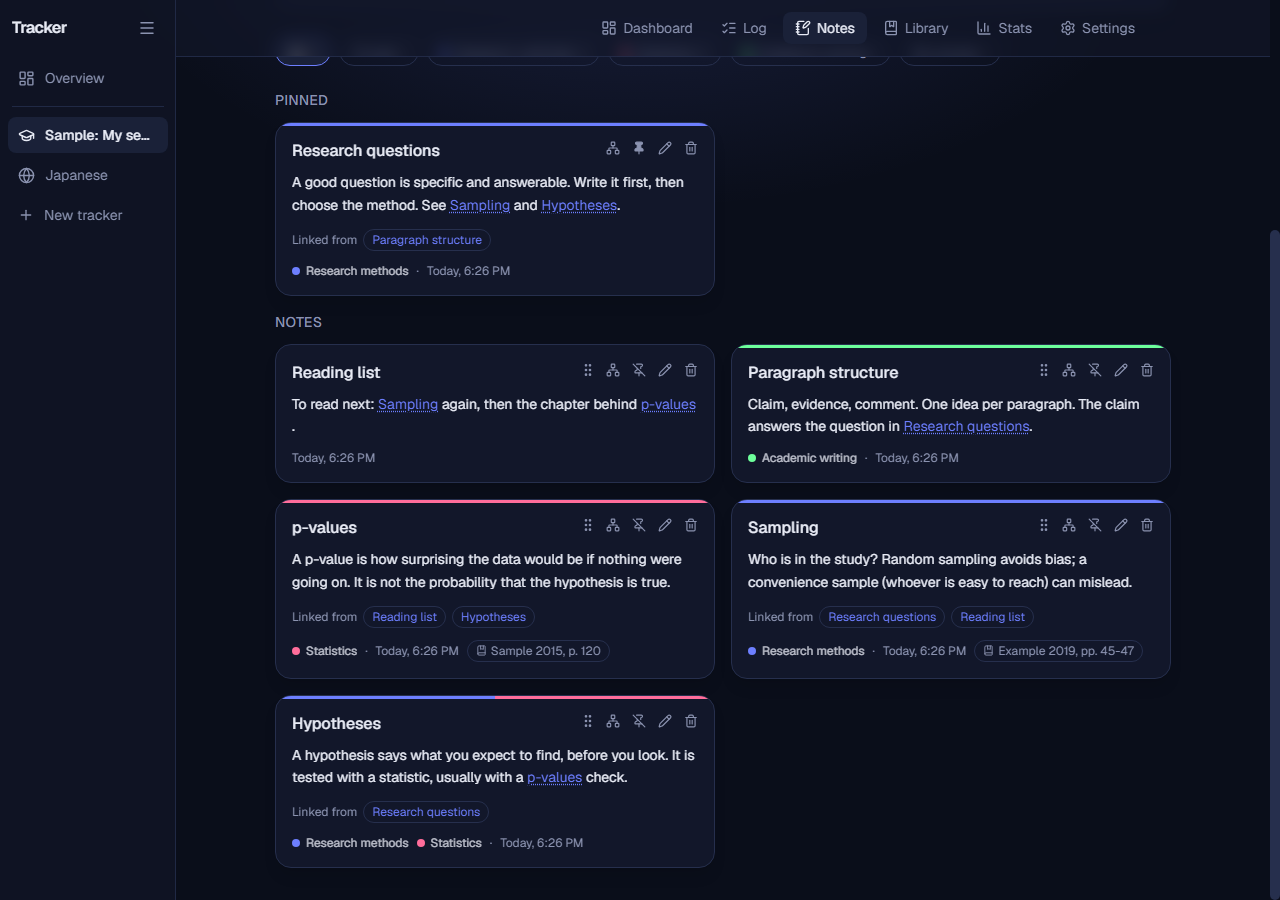
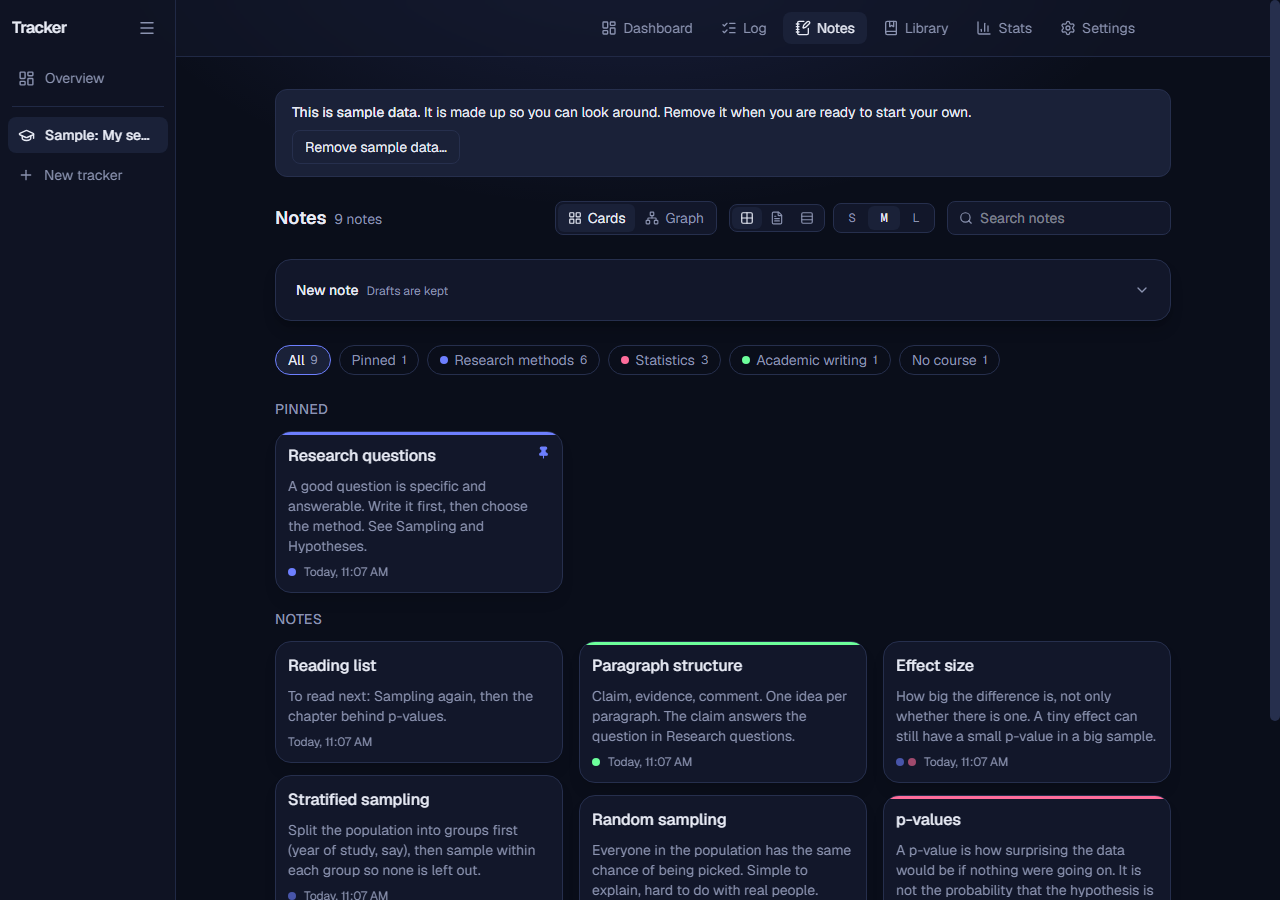
Update the site

diff --git a/docs/manual.html b/docs/manual.html
@@ -23,7 +23,7 @@
   </header>
 
   <h1>The full user manual</h1>
-  <p class="lead">Everything Tracker does, part by part. New here? Start with <a href="guide.html">Getting started in ten minutes</a>. This manual describes version 0.9.0; later versions may add things, and Overview, Settings, About lists what changed.</p>
+  <p class="lead">Everything Tracker does, part by part. New here? Start with <a href="guide.html">Getting started in ten minutes</a>. This manual describes version 0.10.0; later versions may add things, and Overview, Settings, About lists what changed.</p>
 
   <div class="layout">
     <nav class="toc" aria-label="Contents">
@@ -166,7 +166,7 @@
         <figure class="shot"><a class="zoom" href="img/overview.png"><img src="img/overview.png" width="1280" height="900" alt="The overview page with totals, a daily chart for all trackers and a split by tracker." loading="lazy"></a><figcaption>Overview of two trackers.</figcaption></figure>
 
         <h2 id="notes">10. Notes and the graph</h2>
-        <figure class="shot"><a class="zoom" href="img/notes.png"><img src="img/notes.png" width="1280" height="900" alt="The notes page showing pinned and recent note cards with links between them." loading="lazy"></a><figcaption>Notes as cards.</figcaption></figure>
+        <figure class="shot"><a class="zoom" href="img/notes.png"><img src="img/notes.png" width="1280" height="900" alt="The notes page with the layout and size buttons beside Cards and Graph, and small cards showing each note's title, a few lines of its text, its course dots and the date." loading="lazy"></a><figcaption>Notes as small cards (Grid). Click one to read it in full.</figcaption></figure>
         <h3>Writing</h3>
         <ul>
           <li>Press <strong>New note</strong> to open the editor. Anything half written is kept if you leave, until you save or discard it.</li>
@@ -175,7 +175,7 @@
           <li><strong>Start from</strong>: <em>Learned</em>, <em>Question</em>, <em>Checklist</em> and <em>Terms</em> fill in a starting shape.</li>
           <li><strong>Courses</strong>: tick one or several; the note then appears under each. <strong>About</strong> ties it to a book or article, with an optional page number. A thin line of each course's colour runs along the top of the card (a note in several courses shows every colour side by side) and curves with the card's corners in every theme.</li>
           <li><strong>Under</strong>: put the note under one or more other notes (type part of a title and pick it; the &times; takes it out again). See <a href="#notes-under">Notes under notes</a>.</li>
-          <li><strong>Pin</strong> keeps a note at the top. <kbd>Ctrl</kbd>+<kbd>Enter</kbd> saves.</li>
+          <li><strong>Pin</strong> keeps a note at the top. <kbd>Ctrl</kbd>+<kbd>Enter</kbd> saves (another key can be chosen in <a href="#shortcuts">Shortcuts</a>).</li>
           <li>You can also write a note right after a session (see <a href="#timer">The timer</a>) or about a session in the Log.</li>
         </ul>
         <h3>Linking</h3>
@@ -184,7 +184,7 @@
         <p>A note can sit under another note, for example <em>Random sampling</em> under <em>Sampling</em>. A note can be under several notes at once, and a note under a note can have notes under it too, as deep as you like. Put a note under another with <strong>Under</strong> in its editor, or with <strong>Put under...</strong> in the graph.</p>
         <ul>
           <li>A note is in the courses of every note above it as well as in its own. In the example, <em>Random sampling</em> is in Research methods because <em>Sampling</em> is, without being given that course itself. You can still give it a course of its own as well.</li>
-          <li>A note is also <strong>about the books</strong> of every note above it, the way it is in their courses. If <em>Sampling</em> is about a book, <em>Random sampling</em> shows that book too, as a dashed chip, and in the graph its bubble lists it under <em>About, through the notes above</em>. There is no line of its own to that book. A note can still be about a book of its own as well.</li>
+          <li>A note is also <strong>about the books</strong> of every note above it, the way it is in their courses. If <em>Sampling</em> is about a book, <em>Random sampling</em> shows that book too, as a dashed chip, and in the graph its bubble lists it under <em>Also about</em>. There is no line of its own to that book. A note can still be about a book of its own as well.</li>
           <li>Each card shows <strong>Under</strong> with the notes it is under, and how many notes are under it; click one to go to it.</li>
           <li>A note cannot be put under itself, or under a note that is already under it. Tracker refuses that and says why.</li>
           <li><strong>Deleting</strong> a note that has notes under it keeps them: they are given its courses and move up to the notes it was under. The question before deleting says so.</li>
@@ -196,25 +196,31 @@
           <li>When you choose a course for a book in the Library, Tracker asks how the book is joined to it: <strong>Put it under the course</strong> (the first choice) or <strong>A normal connection</strong>, a plain line that says nothing more. Books you already had are under their course.</li>
           <li>A note you write <strong>about a book</strong> (<em>About</em> in the note&rsquo;s editor) is put under that book at once, and you do not have to choose.</li>
           <li>As with notes under notes, a note is in the course of the book it is under, as well as its own courses. A book that is only connected to its course does not pass the course down to its notes.</li>
-          <li>In the graph, a book under its course and a note under its book are joined by dashed lines, each in its own look (see <em>Four kinds of line for being under something</em> below). <strong>Put under...</strong> works for them too: a book goes under a course, a note goes under a book. Selecting the line of a book and its course offers <em>Make it a normal connection</em> or <em>Put under</em>, to switch between the two.</li>
+          <li>In the graph, a book under its course and a note under its book are joined by dashed lines, each in its own look (see <em>Four kinds of line for being under something</em> below). <strong>Put under...</strong> works for them too: a book goes under a course, a note goes under a book. Selecting the line of a book and its course shows <em>Type</em>: <em>Under</em> or <em>Normal</em>, to switch between the two.</li>
         </ul>
+        <h3>Grid, full text and list</h3>
+        <p>Beside <em>Cards</em> and <em>Graph</em>, three small buttons choose how the cards show: <strong>Grid</strong> (small cards with the title, a few lines, the course dots, the book and the date; the usual choice), <strong>Full text</strong> (every note in full) and <strong>List</strong> (one row per note). <strong>S</strong>, <strong>M</strong> and <strong>L</strong> set the size in Grid (how many cards side by side and how many lines show) and in List (how roomy the rows are). In Grid and List, <strong>click a note</strong> to show it in full where it is, with its pictures and buttons; click its title again, press <kbd>Esc</kbd> or click another note to make it small again. A note opened from a link, a citation or the graph is shown in full. The same choice is in each tracker&rsquo;s Settings, <em>Notes</em>, and it is kept in this browser for every tracker.</p>
         <h3>Finding</h3>
         <p>Filter by <em>All</em>, <em>Pinned</em>, a course, or <em>No course</em>, or type in <strong>Search notes</strong>. A course lists its notes and the notes under them. Notes can be dragged into your own order.</p>
         <h3>The graph</h3>
         <p>Press <strong>Graph</strong> (next to <em>Cards</em>) to see your notes as dots joined by their links. Courses are the large ring-shaped dots, books are rectangles, notes are dots coloured by course (a note in two courses is split in two colours).</p>
-        <figure class="shot"><a class="zoom" href="img/graph.png"><img src="img/graph.png" width="1280" height="900" alt="The notes graph with labelled dots for notes, courses and books, lines for links, and dashed lines from Random sampling and Stratified sampling to Sampling, the note they are under." loading="lazy"></a><figcaption>The graph. Drag a dot to move it; click one to open the note.</figcaption></figure>
+        <figure class="shot"><a class="zoom" href="img/graph.png"><img src="img/graph.png" width="1280" height="900" alt="The notes graph with labelled dots for notes, courses and books, lines for links, and dashed lines from Random sampling and Stratified sampling to Sampling, the note they are under." loading="lazy"></a><figcaption>The graph. Drag a dot to move it; click one for its details.</figcaption></figure>
         <ul>
           <li>The tick boxes <strong>Courses</strong>, <strong>Unwritten links</strong> and <strong>Books</strong> show or hide those kinds of dots; <strong>Fit</strong> fits everything in view. Your choices are remembered.</li>
-          <li><strong>Click a dot or a line</strong> and its details open in a <strong>bubble</strong> beside it. The bubble follows the dot when you move or zoom the picture, opens on the dot&rsquo;s other side near the edge of the picture, and has the buttons <em>Open note</em> (or <em>Open in Library</em> for a book), <em>Connect to...</em> and <em>Clear</em>. Clicking empty space closes it.</li>
+          <li><strong>Click a dot or a line</strong> and its details open in a <strong>bubble</strong> beside it. A line&rsquo;s bubble names its kind (the names used in Customise) and its two ends, with an arrow from what is under to what it is under. The bubble follows the dot when you move or zoom the picture, opens on the dot&rsquo;s other side near the edge of the picture, and has the buttons <em>Open note</em> (or <em>Open in Library</em> for a book), <em>Connect to...</em> and <em>Clear</em>. Clicking empty space closes it.</li>
+          <li><strong>The note panel.</strong> <em>Open note</em> in a note&rsquo;s bubble (or a double-click on its dot) opens the note in a panel at the right of the graph, below it on a narrow screen, with the whole editor: title, text, courses, under, book and page, pictures and pin, with <em>Save</em> and <em>Delete note</em>. It stays open after saving, and clicking another note&rsquo;s dot shows that note in it. The close button or <kbd>Esc</kbd> closes it (in a field, the first <kbd>Esc</kbd> leaves the field). It is there in Full window and Fullscreen too. <em>Go to card</em> leaves the graph and shows the note&rsquo;s card instead.</li>
+          <li><strong>New notes from the graph.</strong> <em>New note</em> beside <em>Fit</em>, the <kbd>N</kbd> key, or a double-click on empty space opens the panel with an empty editor. <em>Add note</em> in a dot&rsquo;s bubble starts it already under that note, about that book, or in that course. Nothing is saved until you press <em>Add note</em>; the new note&rsquo;s dot is then selected and brought to the middle.</li>
           <li><strong>Full window</strong> (next to Fullscreen) makes the graph fill this browser window, without taking over the screen. It is for people who keep Tracker in a smaller window beside other things. The tick boxes and Fit come along, <kbd>Esc</kbd> leaves it, and <em>Open note</em> leaves it before showing the note. It works together with Fullscreen.</li>
           <li><strong>Fullscreen</strong> (when your browser allows it) gives the graph the whole screen. <kbd>Esc</kbd> leaves it.</li>
-          <li><strong>Four kinds of line for being under something.</strong> A dashed line runs from a book to the course it is under, from a note to the book it is about, and from a note to each note it is under. It pulls the lower dot close, so what is under something gathers around it, and it has a look of its own by how far down it is, so that you can tell the levels apart. A <em>primary note</em> is one about a book (or a note with nothing above it), a <em>secondary note</em> is under a primary note, and a <em>tertiary note</em> is under a secondary note, or anywhere further down. The four lines, from the top: <strong>subfield and book</strong> (a dashed line in the course&rsquo;s colour), <strong>book and primary note</strong> (a heavy dashed line in the text colour), <strong>primary and secondary note</strong> (a thinner dashed grey line) and <strong>secondary and tertiary note</strong> (a thin dotted grey line). None has an arrowhead until you switch it on in Customise. A note has a line to a course only for the courses you gave it yourself; it reaches the others through what is above it. If a [[link]] also joins two notes, they share that one line. A book that is only connected to its course has a plain thin line in the course&rsquo;s colour instead. Arrowheads, pointing at the one above, can be switched on in Customise.</li>
-          <li><strong>Put under...</strong> (next to <em>Connect to...</em> when a note or a book is selected) puts it under the note, book or course you click next: a note goes under a note or a book, a book goes under a course. The shortcut: hold <kbd>Alt</kbd> (or <kbd>Ctrl</kbd>) and drag the note or book onto what it goes under, the way holding <kbd>Shift</kbd> and dragging joins two dots (for a book and a course, <em>Connect to...</em> and <kbd>Shift</kbd>-drag make a normal connection). Select an under line and press <em>Disconnect</em> to take a note out from under another, or a book out of its course.</li>
-          <li>A connection can carry a short <strong>comment</strong> that keeps its history, so you can write why two notes belong together. The comment is written along the line, tilted with it and cut with &ldquo;...&rdquo; to fit between the two dots; select the line to read it in full.</li>
+          <li><strong>Four kinds of line for being under something.</strong> A dashed line runs from a book to the course it is under, from a note to the book it is about, and from a note to each note it is under. It pulls the lower dot close, so what is under something gathers around it, and it has a look of its own by how far down it is, so that you can tell the levels apart. A <em>primary note</em> is one about a book (or a note with nothing above it), a <em>secondary note</em> is under a primary note, and a <em>tertiary note</em> is under a secondary note, or anywhere further down. The four lines, from the top: <strong>subfield and book</strong> (dashed, in the course&rsquo;s colour), <strong>book and primary note</strong> (heavy dashed, in the theme&rsquo;s accent colour), <strong>primary and secondary note</strong> (dashed, the accent half faded) and <strong>secondary and tertiary note</strong> (thin dashed, grey). A dashed line is always the hierarchy: a <strong>[[link]]</strong> is a dotted line in the colour of a course the two notes share (or else the first note&rsquo;s course; orange when neither has one), and a note in a course has a thin solid line in the course&rsquo;s colour. In a light theme these automatic colours are darkened as much as needed to stay easy to see. None has an arrowhead until you switch it on in Customise. A note has a line to a course only for the courses you gave it yourself; it reaches the others through what is above it. If a [[link]] also joins two notes, they share that one line. A book that is only connected to its course has a plain thin line in the course&rsquo;s colour instead. Arrowheads, pointing at the one above, can be switched on in Customise.</li>
+          <li><strong>Put under...</strong> (next to <em>Connect to...</em> when a note or a book is selected) puts it under the note, book or course you click next: a note goes under a note or a book, a book goes under a course. The shortcut: hold <kbd>Alt</kbd> and drag the note or book onto what it goes under (for a book and a course, <em>Connect to...</em> and <kbd>Shift</kbd>-drag make a normal connection). See <a href="#shortcuts">Shortcuts</a> for one for each kind of line. Select an under line and press <em>Disconnect</em> to take a note out from under another, or a book out of its course.</li>
+          <li id="shortcuts"><strong>Shortcuts.</strong> Hold keys while you drag from one dot onto another to choose the kind of connection: <kbd>Shift</kbd> makes a normal connection (two notes get a [[link]], a note joins a course, a note is about a book), <kbd>Shift</kbd>+<kbd>1</kbd> puts a book under a course, <kbd>Shift</kbd>+<kbd>2</kbd> a note under a book, <kbd>Shift</kbd>+<kbd>3</kbd> or <kbd>Shift</kbd>+<kbd>4</kbd> the dragged note under the other note (the message says whether it became a secondary or a tertiary note), <kbd>Shift</kbd>+<kbd>5</kbd> adds a note to a course, and <kbd>Alt</kbd> puts it under whatever it is dropped on. For the book and course shortcuts either dot can be the one dragged. If the two dots do not fit the keys, nothing changes and a short line says what the keys join. In the graph, <kbd>N</kbd> starts a new note and <kbd>F</kbd> fits the picture. Every shortcut can be changed in each tracker&rsquo;s Settings, <em>Shortcuts</em> (press <em>Change</em>, then the new keys; <kbd>Esc</kbd> cancels; a key that is already used is refused). Kept in this browser.</li>
+          <li><strong>Change a connection&rsquo;s type.</strong> Click the line between two notes and its bubble shows <em>Type</em>: <em>Link</em> (a [[link]] in the text) or <em>Under</em> (the first note under the second). Switching from a link takes the [[link]] out of the text (the words stay) and puts the note under the other; switching to a link takes it out from under and adds the [[link]] to its <em>Related</em> line. <em>Swap</em> turns an under line round, so the note that was above goes under. For a book and its course the choice is <em>Under</em> or <em>Normal</em>. A comment on the line moves with it, the line stays selected, and one <em>Undo</em> puts everything back. If the new connection cannot be made (for example it would put a note under itself), nothing changes.</li>
+          <li>A connection can carry a short <strong>comment</strong> that keeps its history, so you can write why two notes belong together. The comment is written along the line, tilted with it and cut with &ldquo;...&rdquo; to fit between the two dots; select the line to read it in full. A changed or removed comment can be brought back with <em>Restore</em>.</li>
           <li>In any tracker&rsquo;s Settings, <em>Notes graph</em>, you can choose the shape of each kind of dot and how the graph moves (it follows your computer&rsquo;s &ldquo;reduce motion&rdquo; setting by default).</li>
-          <li><strong>Customise</strong>, in the same place, starts closed and is optional. For every kind of line (links, note and subfield lines, each of the four lines for being under something, and suggestions) you can set its style (solid, dashed or dotted), width, colour, opacity and strength (how hard it pulls its two dots together), and for the four lines for being under something whether they have an arrowhead (off to begin with); for every kind of dot its fill colour and opacity and its border colour and width; and the general pull: <em>Spread</em> (how hard dots push apart) and <em>Centre</em> (how hard everything is pulled to the middle). <em>Automatic</em> keeps the colour the graph picks itself, such as a course&rsquo;s colour. A line still lights up when its dot is selected and fades when another is. <strong>Back to the defaults</strong> brings back the usual look. The choices are kept in this browser and used in every tracker.</li>
+          <li><strong>Customise</strong>, in the same place, starts closed and is optional. For every kind of line, listed from the most important (it pulls hardest) to the least: subfield and book, book and primary, primary and secondary, secondary and tertiary, links, note and subfield, and suggestions, you can set its style (solid, dashed or dotted), width, colour, opacity and strength (how hard it pulls its two dots together), and for the four lines for being under something whether they have an arrowhead (off to begin with); for every kind of dot its fill colour and opacity and its border colour and width; and the general pull: <em>Spread</em> (how hard dots push apart) and <em>Centre</em> (how hard everything is pulled to the middle). <em>Background</em> sets the picture&rsquo;s background: automatically it is pitch black in a dark theme (so the dots and lines stand out from it) and the theme&rsquo;s own in a light one. <em>Automatic</em> keeps the colour the graph picks itself, such as a course&rsquo;s colour. A line still lights up when its dot is selected and fades when another is. <strong>Back to the defaults</strong> brings back the usual look. The choices are kept in this browser and used in every tracker.</li>
         </ul>
-        <figure class="shot"><a class="zoom" href="img/graph-fullscreen.png"><img src="img/graph-fullscreen.png" width="1280" height="800" alt="The notes graph shown fullscreen, with a bubble beside the clicked note Research questions showing its course, its text, the notes it connects to and the buttons Open note, Connect to and Clear." loading="lazy"></a><figcaption>Fullscreen: the details of a clicked note open in a bubble beside its dot.</figcaption></figure>
+        <figure class="shot"><a class="zoom" href="img/graph-fullscreen.png"><img src="img/graph-fullscreen.png" width="1280" height="800" alt="The notes graph in Full window on a black background, with a bubble beside the clicked note Research questions (buttons Open note, Go to card, Connect to, Add note, Put under and Clear) and the whole note open in a panel at the right." loading="lazy"></a><figcaption>Full window: a clicked note's details in a bubble beside its dot, and Open note shows the note in the panel at the right.</figcaption></figure>
 
         <h2 id="library">11. The Library</h2>
         <figure class="shot"><a class="zoom" href="img/library.png"><img src="img/library.png" width="1280" height="900" alt="The library with a book being read, showing progress, pace and time left, and a finished book." loading="lazy"></a><figcaption>The Library.</figcaption></figure>
@@ -329,7 +335,7 @@
           <li>Everything can be done with the keyboard: <kbd>Tab</kbd> and <kbd>Shift</kbd>+<kbd>Tab</kbd> move between controls, <kbd>Enter</kbd> or <kbd>Space</kbd> press them, and the focus is always visible.</li>
           <li>Windows that open on top (New tracker, adding a book) keep <kbd>Tab</kbd> inside them, close with <kbd>Esc</kbd> and give the focus back to what opened them.</li>
           <li>In a list with a grip (courses, activities, notes), focus the grip and press <kbd>Up</kbd> or <kbd>Down</kbd> to move the item. On touch screens it becomes two small arrow buttons. Trackers in the sidebar are moved with the <em>Move up</em> and <em>Move down</em> buttons in each tracker&rsquo;s Settings, under <em>This tracker</em>.</li>
-          <li><kbd>Ctrl</kbd>+<kbd>Enter</kbd> saves a note.</li>
+          <li><kbd>Ctrl</kbd>+<kbd>Enter</kbd> saves a note. This and the graph&rsquo;s shortcuts can be changed in each tracker&rsquo;s Settings, <a href="#shortcuts">Shortcuts</a>.</li>
           <li>Every button and field has a name a screen reader can read, each page has a heading, and error messages are announced when they appear.</li>
           <li>Text in every built-in theme meets the WCAG AA contrast of 4.5 to 1, and the theme editor warns about colours that do not. Calendar squares are at least 24 pixels wide.</li>
           <li>The graph&rsquo;s animation follows your computer&rsquo;s &ldquo;reduce motion&rdquo; setting unless you choose otherwise.</li>
